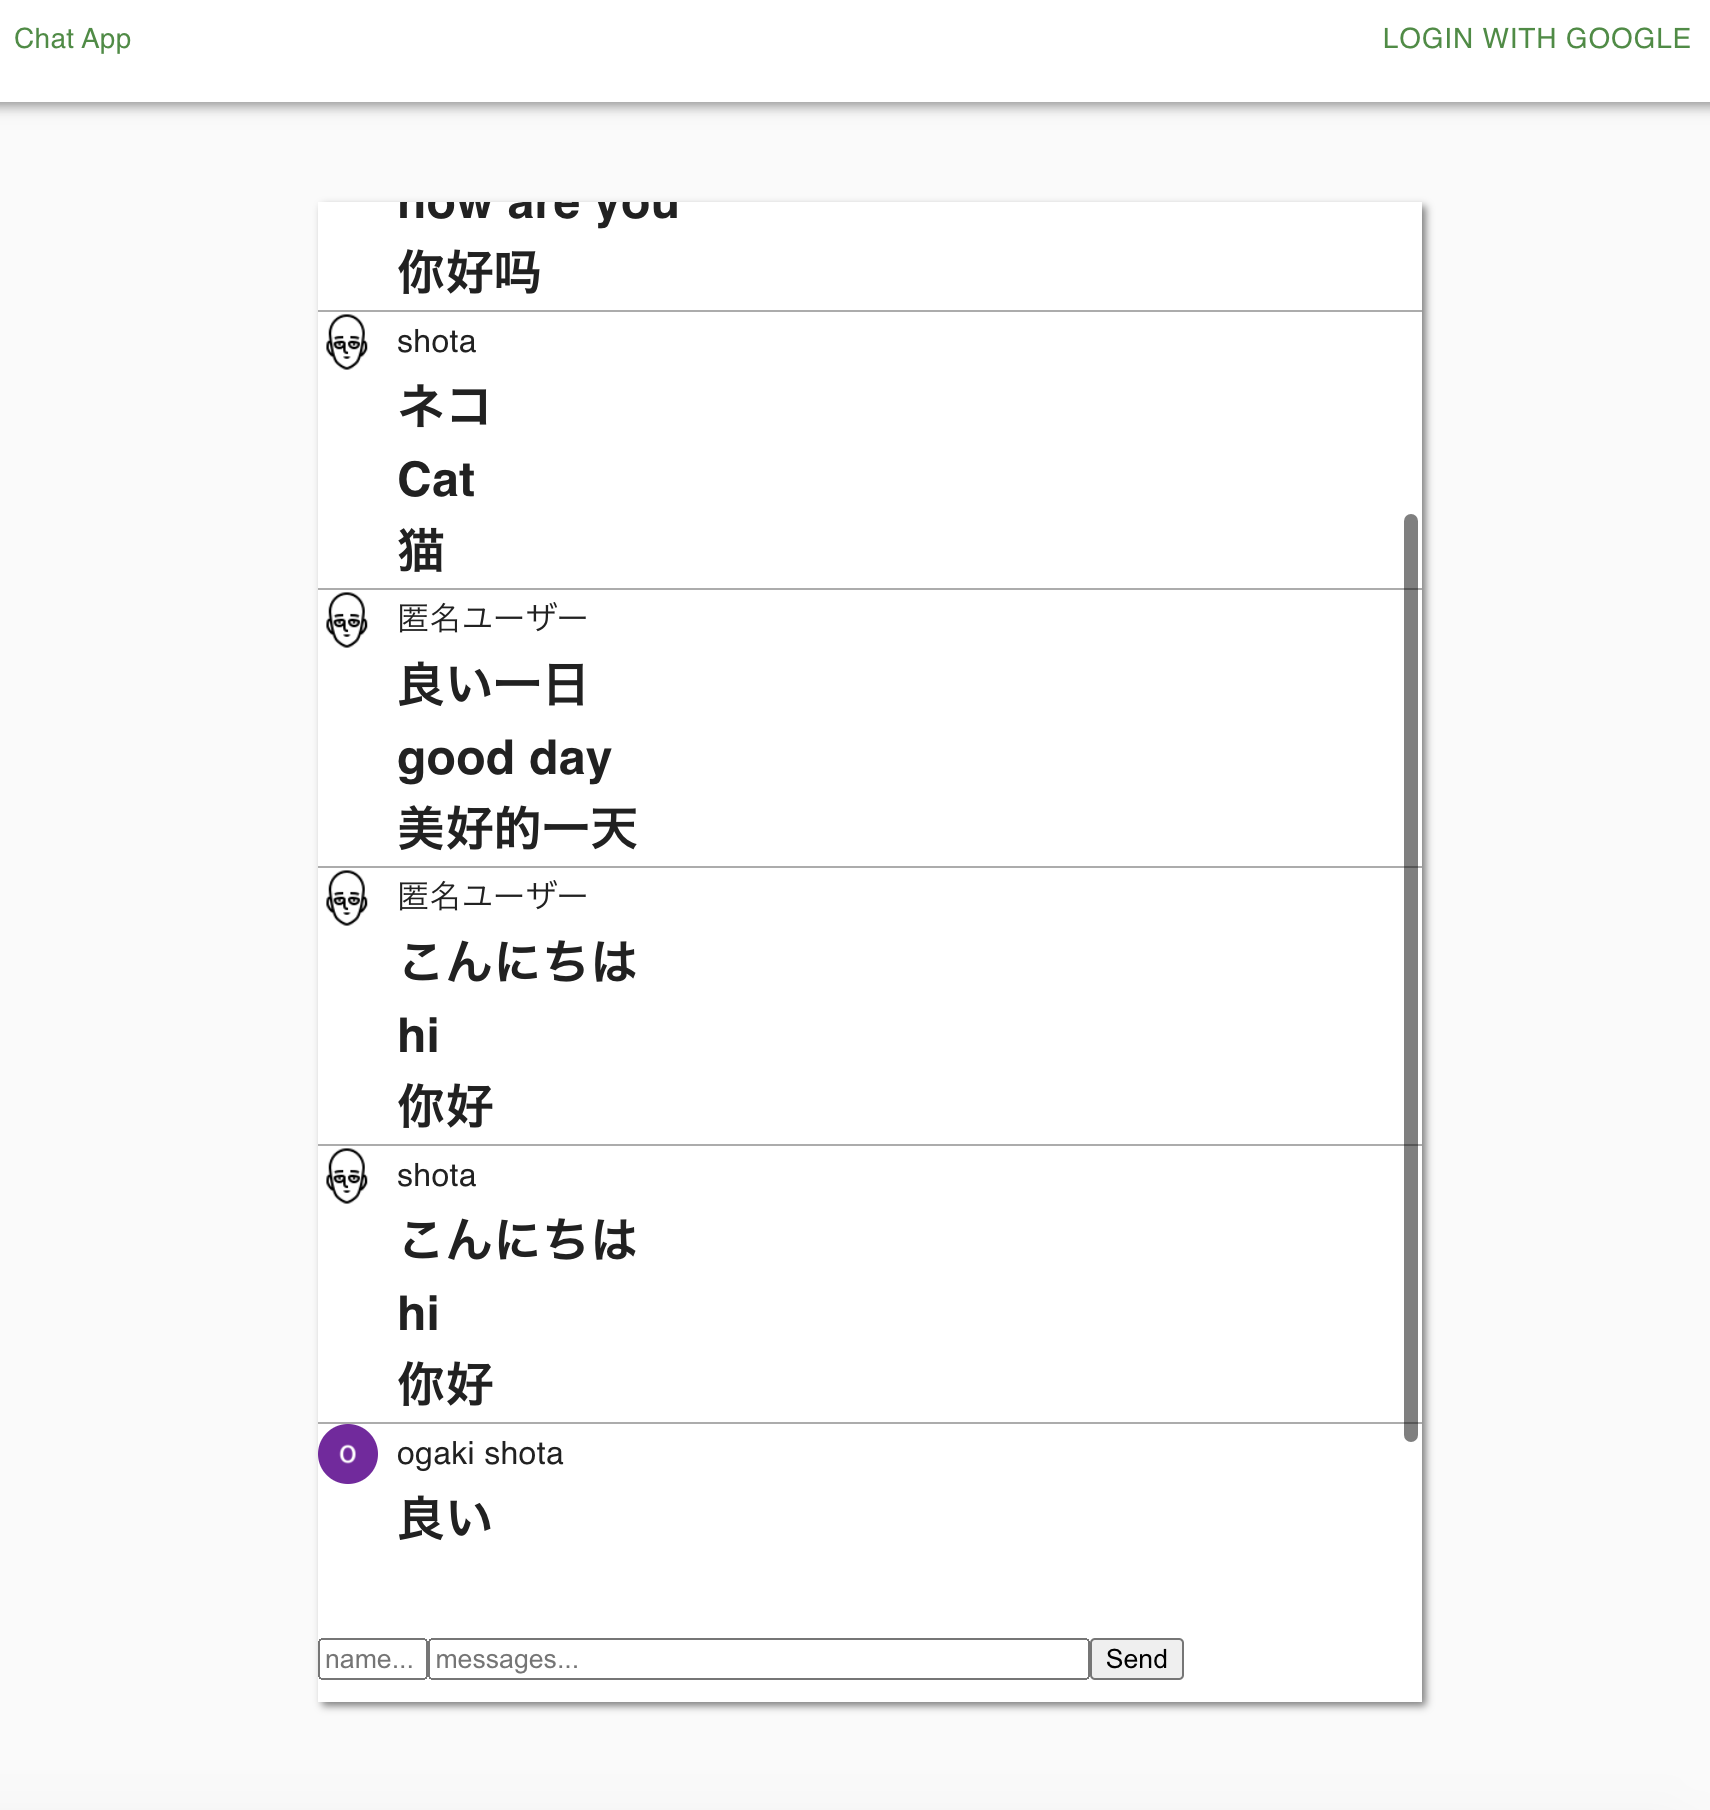
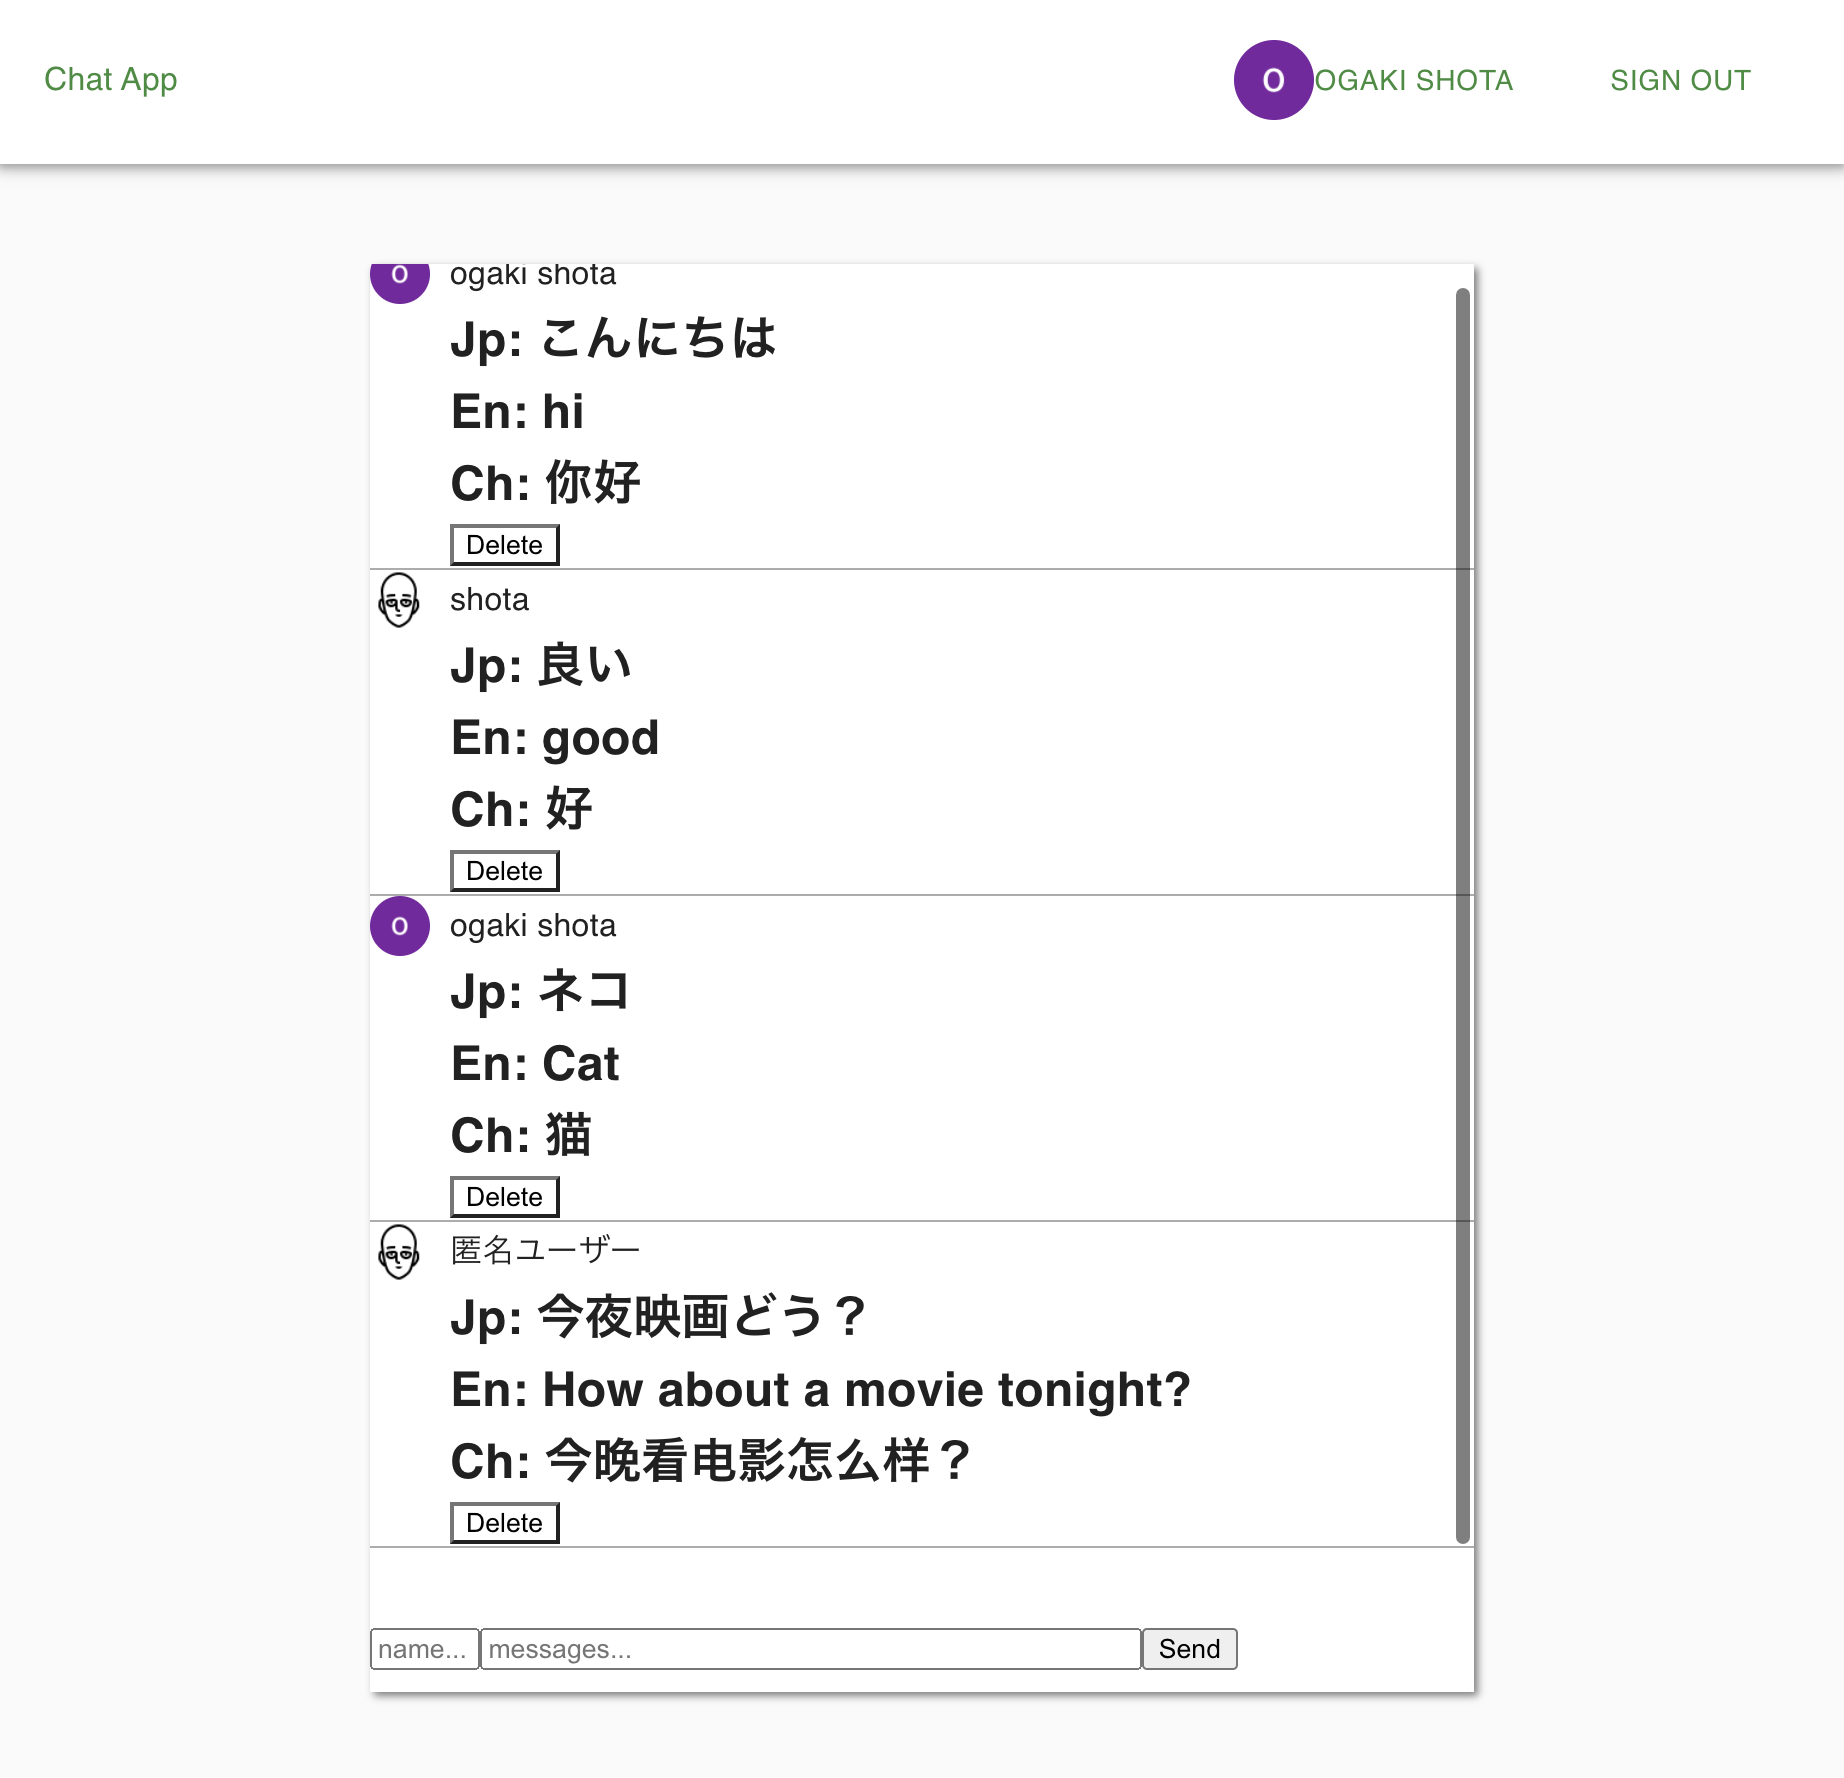
edit imgs readme  gitignore

Changed region(s): [[0.0, 0.0, 1.0, 0.9589]]

diff --git a/README.md b/README.md
@@ -4,13 +4,14 @@
 また、ログインしなくても利用出来ます。<br />
 日常の中で英語に触れるチャンスを増やすことで英語の上達を目的としたアプリケーションです。<br />
 ブラウザのタブを二つ用意し、メッセージを送信いただくとリアルタイムで受信されるのを確認することができます。<br />
-また、データが永続化されるため、いつでも確認可能です。<br />
+データが永続化されるため、いつでも確認可能です。<br />
 <br />
 <img src="./sample2.png" width="400px"><img src="./sample1.png" width="400px">
 # 機能一覧：<br />
 ・googleログイン機能（firebase）<br />
 ・テキスト通訳機能（firebase Extension）<br />
 ・リアルタイムアップデート（firebase onSnapshot()メソッド）<br />
+・メッセージ削除機能（firebase firestore）<br />
 ・メッセージの永続化（firebase firestore）<br />
 ・チャット機能<br />
 
